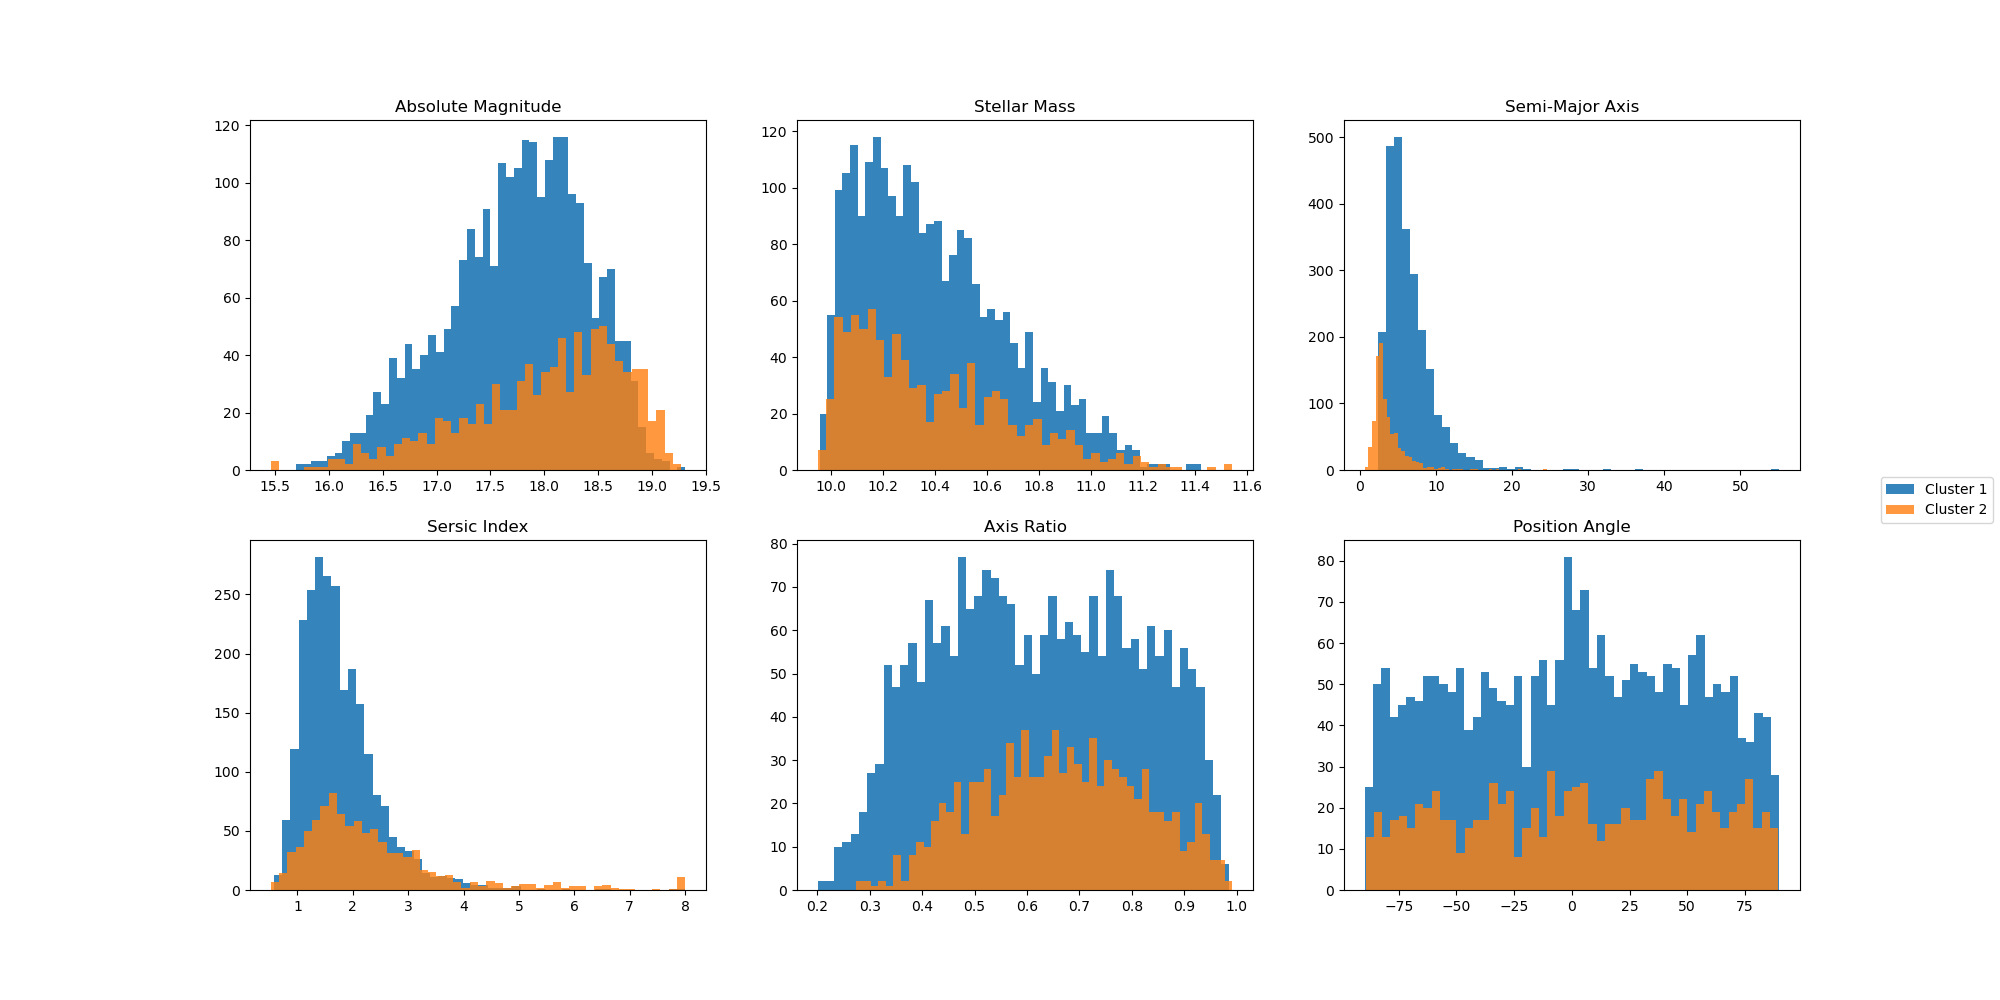
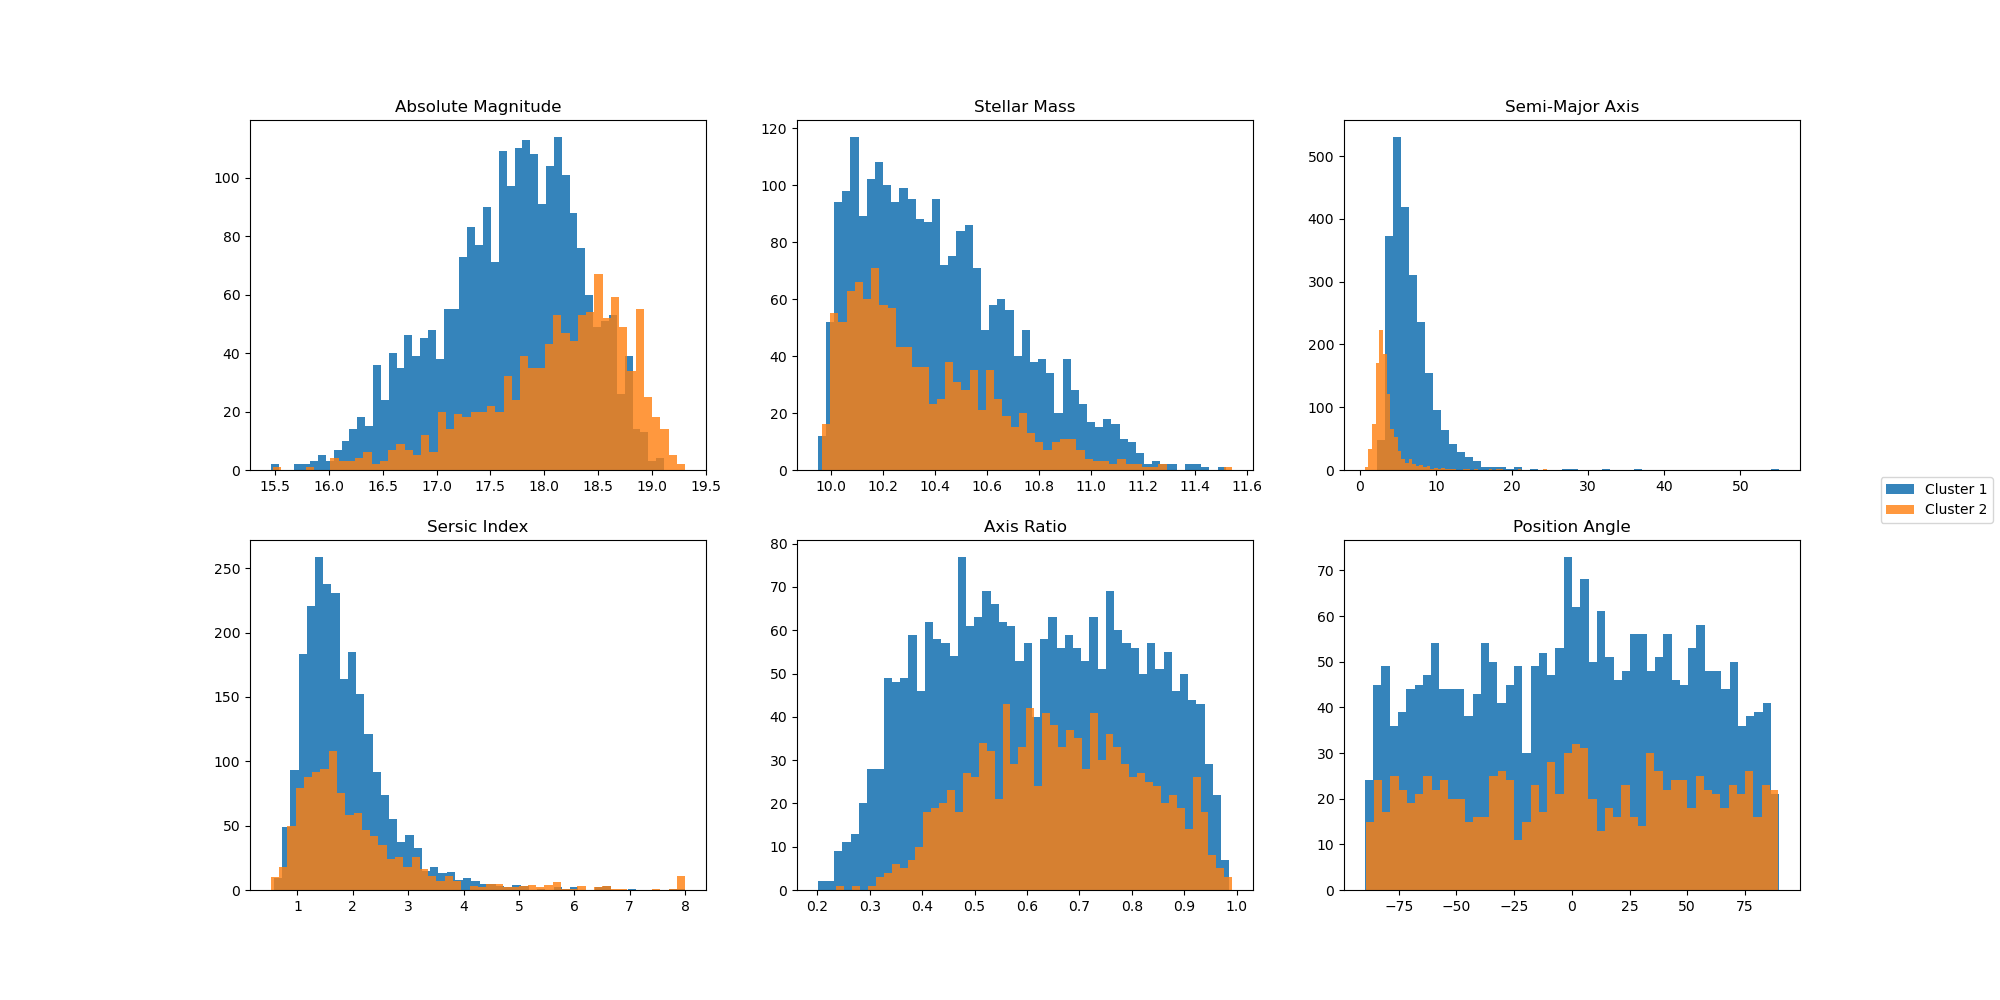
Code

diff --git a/property_comparison.py b/property_comparison.py
@@ -113,28 +113,28 @@ print(np.array(group_2).shape)
 
 # fig, axs = plt.subplots(2, 3, figsize=(20,10))
 #
-# axs[0, 0].hist(group_1["galfit_mag"], bins=50, alpha=0.9)
-# axs[0, 0].hist(group_2["galfit_mag"], bins=50, alpha=0.8)
+# axs[0, 0].hist(group_2["galfit_mag"], bins=50, alpha=0.9)
+# axs[0, 0].hist(group_1["galfit_mag"], bins=50, alpha=0.8)
 # axs[0, 0].set_title("Absolute Magnitude")
 #
-# axs[0, 1].hist(group_1["galfit_lmstar"], bins=50, alpha=0.9)
-# axs[0, 1].hist(group_2["galfit_lmstar"], bins=50, alpha=0.8)
+# axs[0, 1].hist(group_2["galfit_lmstar"], bins=50, alpha=0.9)
+# axs[0, 1].hist(group_1["galfit_lmstar"], bins=50, alpha=0.8)
 # axs[0, 1].set_title("Stellar Mass")
 #
-# axs[0, 2].hist(group_1["galfit_re"], bins=50, alpha=0.9)
-# axs[0, 2].hist(group_2["galfit_re"], bins=50, alpha=0.8)
+# axs[0, 2].hist(group_2["galfit_re"], bins=50, alpha=0.9)
+# axs[0, 2].hist(group_1["galfit_re"], bins=50, alpha=0.8)
 # axs[0, 2].set_title("Semi-Major Axis")
 #
-# axs[1, 0].hist(group_1["galfit_n"], bins=50, alpha=0.9)
-# axs[1, 0].hist(group_2["galfit_n"], bins=50, alpha=0.8)
+# axs[1, 0].hist(group_2["galfit_n"], bins=50, alpha=0.9)
+# axs[1, 0].hist(group_1["galfit_n"], bins=50, alpha=0.8)
 # axs[1, 0].set_title("Sersic Index")
 #
-# axs[1, 1].hist(group_1["galfit_q"], bins=50, alpha=0.9)
-# axs[1, 1].hist(group_2["galfit_q"], bins=50, alpha=0.8)
+# axs[1, 1].hist(group_2["galfit_q"], bins=50, alpha=0.9)
+# axs[1, 1].hist(group_1["galfit_q"], bins=50, alpha=0.8)
 # axs[1, 1].set_title("Axis Ratio")
 #
-# axs[1, 2].hist(group_1["galfit_PA"], bins=50, alpha=0.9)
-# axs[1, 2].hist(group_2["galfit_PA"], bins=50, alpha=0.8)
+# axs[1, 2].hist(group_2["galfit_PA"], bins=50, alpha=0.9)
+# axs[1, 2].hist(group_1["galfit_PA"], bins=50, alpha=0.8)
 # axs[1, 2].set_title("Position Angle")
 #
 # fig.legend(labels=["Cluster 1", "Cluster 2"], loc="center right")
@@ -145,107 +145,75 @@ print(np.array(group_2).shape)
 
 
 
-# group_1_random_index = random.sample(range(0, len(group_1_id)), 9)
-# group_2_random_index = random.sample(range(0, len(group_2_id)), 9)
 
-# group_1_random = group_1_id.iloc[group_1_random_index].tolist()
-# group_2_random = group_2_id.iloc[group_2_random_index].tolist()
-
-group_1_random = [3518865, 3533021, 10108400, 10452290, 9195988, 10625818, 17097594, 7164803, 9563813]
-group_2_random = [12485051, 9599139, 14266206, 9032934, 17858355, 10372952, 15996483, 9542933, 7144268]
-
-print(group_1_random)
-print(group_2_random)
-
-# fig, axs = plt.subplots(3, 6, figsize=(20,10))
-
-fig = plt.figure(constrained_layout=False, figsize=(20, 10))
-
-gs1 = fig.add_gridspec(nrows=3, ncols=3, left=0.05, right=0.48, wspace=0.05, hspace=0.05)
-gs2 = fig.add_gridspec(nrows=3, ncols=3, left=0.55, right=0.98, wspace=0.05, hspace=0.05)
-
-for i in range(0, 3):
-
-    g1_ax1 = fig.add_subplot(gs1[0, i])
-    image = mpimg.imread("/cosma7/data/Eagle/web-storage/RefL0100N1504_Subhalo/galface_" + str(group_1_random[i]) + ".png")
-    g1_ax1.imshow(image)
-    g1_ax1.get_xaxis().set_visible(False)
-    g1_ax1.get_yaxis().set_visible(False)
-
-    g1_ax2 = fig.add_subplot(gs1[1, i])
-    image = mpimg.imread("/cosma7/data/Eagle/web-storage/RefL0100N1504_Subhalo/galface_" + str(group_1_random[i+3]) + ".png")
-    g1_ax2.imshow(image)
-    g1_ax2.get_xaxis().set_visible(False)
-    g1_ax2.get_yaxis().set_visible(False)
-
-    g1_ax3 = fig.add_subplot(gs1[2, i])
-    image = mpimg.imread("/cosma7/data/Eagle/web-storage/RefL0100N1504_Subhalo/galface_" + str(group_1_random[i+6]) + ".png")
-    g1_ax3.imshow(image)
-    g1_ax3.get_xaxis().set_visible(False)
-    g1_ax3.get_yaxis().set_visible(False)
-
-    g2_ax1 = fig.add_subplot(gs2[0, i])
-    image = mpimg.imread("/cosma7/data/Eagle/web-storage/RefL0100N1504_Subhalo/galface_" + str(group_2_random[i]) + ".png")
-    g2_ax1.imshow(image)
-    g2_ax1.get_xaxis().set_visible(False)
-    g2_ax1.get_yaxis().set_visible(False)
-
-    g2_ax2 = fig.add_subplot(gs2[1, i])
-    image = mpimg.imread("/cosma7/data/Eagle/web-storage/RefL0100N1504_Subhalo/galface_" + str(group_2_random[i+3]) + ".png")
-    g2_ax2.imshow(image)
-    g2_ax2.get_xaxis().set_visible(False)
-    g2_ax2.get_yaxis().set_visible(False)
-
-    g2_ax3 = fig.add_subplot(gs2[2, i])
-    image = mpimg.imread("/cosma7/data/Eagle/web-storage/RefL0100N1504_Subhalo/galface_" + str(group_2_random[i+6]) + ".png")
-    g2_ax3.imshow(image)
-    g2_ax3.get_xaxis().set_visible(False)
-    g2_ax3.get_yaxis().set_visible(False)
-
-
-    if i == 1:
-        g1_ax1.set_title("Group 1", fontsize=30, pad=20)
-        g2_ax1.set_title("Group 2", fontsize=30, pad=20)
-
-
-    # image = mpimg.imread("/cosma7/data/Eagle/web-storage/RefL0100N1504_Subhalo/galface_" + str(group_1_random[i]) + ".png")
-    # axs[0, i].imshow(image)
-    # axs[0, i].get_xaxis().set_visible(False)
-    # axs[0, i].get_yaxis().set_visible(False)
-    #
-    # image = mpimg.imread("/cosma7/data/Eagle/web-storage/RefL0100N1504_Subhalo/galface_" + str(group_1_random[i+3]) + ".png")
-    # axs[1, i].imshow(image)
-    # axs[1, i].get_xaxis().set_visible(False)
-    # axs[1, i].get_yaxis().set_visible(False)
-    #
-    # image = mpimg.imread("/cosma7/data/Eagle/web-storage/RefL0100N1504_Subhalo/galface_" + str(group_1_random[i+6]) + ".png")
-    # axs[2, i].imshow(image)
-    # axs[2, i].get_xaxis().set_visible(False)
-    # axs[2, i].get_yaxis().set_visible(False)
-    #
-    # image = mpimg.imread("/cosma7/data/Eagle/web-storage/RefL0100N1504_Subhalo/galface_" + str(group_2_random[i]) + ".png")
-    # axs[0, i+3].imshow(image)
-    # axs[0, i+3].get_xaxis().set_visible(False)
-    # axs[0, i+3].get_yaxis().set_visible(False)
-    #
-    # image = mpimg.imread("/cosma7/data/Eagle/web-storage/RefL0100N1504_Subhalo/galface_" + str(group_2_random[i+3]) + ".png")
-    # axs[1, i+3].imshow(image)
-    # axs[1, i+3].get_xaxis().set_visible(False)
-    # axs[1, i+3].get_yaxis().set_visible(False)
-    #
-    # image = mpimg.imread("/cosma7/data/Eagle/web-storage/RefL0100N1504_Subhalo/galface_" + str(group_2_random[i+6]) + ".png")
-    # axs[2, i+3].imshow(image)
-    # axs[2, i+3].get_xaxis().set_visible(False)
-    # axs[2, i+3].get_yaxis().set_visible(False)
+# # group_1_random_index = random.sample(range(0, len(group_1_id)), 9)
+# # group_2_random_index = random.sample(range(0, len(group_2_id)), 9)
+#
+# # group_1_random = group_1_id.iloc[group_1_random_index].tolist()
+# # group_2_random = group_2_id.iloc[group_2_random_index].tolist()
+#
+# group_1_random = [3518865, 3533021, 10108400, 10452290, 9195988, 10625818, 17097594, 7164803, 9563813]
+# group_2_random = [12485051, 9599139, 14266206, 9032934, 17858355, 10372952, 15996483, 9542933, 7144268]
+#
+# print(group_1_random)
+# print(group_2_random)
+#
+# # fig, axs = plt.subplots(3, 6, figsize=(20,10))
+#
+# fig = plt.figure(constrained_layout=False, figsize=(20, 10))
+#
+# gs1 = fig.add_gridspec(nrows=3, ncols=3, left=0.05, right=0.48, wspace=0.05, hspace=0.05)
+# gs2 = fig.add_gridspec(nrows=3, ncols=3, left=0.55, right=0.98, wspace=0.05, hspace=0.05)
+#
+# for i in range(0, 3):
+#
+#     g1_ax1 = fig.add_subplot(gs1[0, i])
+#     image = mpimg.imread("/cosma7/data/Eagle/web-storage/RefL0100N1504_Subhalo/galface_" + str(group_1_random[i]) + ".png")
+#     g1_ax1.imshow(image)
+#     g1_ax1.get_xaxis().set_visible(False)
+#     g1_ax1.get_yaxis().set_visible(False)
+#
+#     g1_ax2 = fig.add_subplot(gs1[1, i])
+#     image = mpimg.imread("/cosma7/data/Eagle/web-storage/RefL0100N1504_Subhalo/galface_" + str(group_1_random[i+3]) + ".png")
+#     g1_ax2.imshow(image)
+#     g1_ax2.get_xaxis().set_visible(False)
+#     g1_ax2.get_yaxis().set_visible(False)
+#
+#     g1_ax3 = fig.add_subplot(gs1[2, i])
+#     image = mpimg.imread("/cosma7/data/Eagle/web-storage/RefL0100N1504_Subhalo/galface_" + str(group_1_random[i+6]) + ".png")
+#     g1_ax3.imshow(image)
+#     g1_ax3.get_xaxis().set_visible(False)
+#     g1_ax3.get_yaxis().set_visible(False)
+#
+#     g2_ax1 = fig.add_subplot(gs2[0, i])
+#     image = mpimg.imread("/cosma7/data/Eagle/web-storage/RefL0100N1504_Subhalo/galface_" + str(group_2_random[i]) + ".png")
+#     g2_ax1.imshow(image)
+#     g2_ax1.get_xaxis().set_visible(False)
+#     g2_ax1.get_yaxis().set_visible(False)
+#
+#     g2_ax2 = fig.add_subplot(gs2[1, i])
+#     image = mpimg.imread("/cosma7/data/Eagle/web-storage/RefL0100N1504_Subhalo/galface_" + str(group_2_random[i+3]) + ".png")
+#     g2_ax2.imshow(image)
+#     g2_ax2.get_xaxis().set_visible(False)
+#     g2_ax2.get_yaxis().set_visible(False)
+#
+#     g2_ax3 = fig.add_subplot(gs2[2, i])
+#     image = mpimg.imread("/cosma7/data/Eagle/web-storage/RefL0100N1504_Subhalo/galface_" + str(group_2_random[i+6]) + ".png")
+#     g2_ax3.imshow(image)
+#     g2_ax3.get_xaxis().set_visible(False)
+#     g2_ax3.get_yaxis().set_visible(False)
+#
+#
+#     if i == 1:
+#         g1_ax1.set_title("Group 1", fontsize=30, pad=20)
+#         g2_ax1.set_title("Group 2", fontsize=30, pad=20)
+#
+#
+#
+# plt.savefig("Plots/2_cluster_" + str(encoding_dim) + "_feature_originals")
+# plt.show()
 
 
-# axs[0,1].set_title("Group 1", pad=15, fontsize=40)
-# axs[0,4].set_title("Group 2", pad=15, fontsize=40)
-
-
-
-plt.savefig("Plots/2_cluster_" + str(encoding_dim) + "_feature_originals")
-plt.show()
 
 
 
@@ -269,49 +237,13 @@ plt.show()
 
 
 
+
+
 # extracted_features = np.flipud(np.rot90(extracted_features))
 #
 # fig, axs = plt.subplots(encoding_dim, 6, figsize=(20,60))
 #
 # for i in range(0, encoding_dim):
-#
-#     # title = "Feature " + str(i+1)
-#     # axs[0, i].set_title(title)
-#
-#     # sns.scatterplot(ax=axs[0, i], x=extracted_features[i], y=ab_magnitude, hue=clusters, palette="colorblind")
-#     # sns.scatterplot(ax=axs[1, i], x=extracted_features[i], y=mass, hue=clusters, palette="colorblind")
-#     # sns.scatterplot(ax=axs[2, i], x=extracted_features[i], y=semi_major, hue=clusters, palette="colorblind")
-#     # sns.scatterplot(ax=axs[3, i], x=extracted_features[i], y=sersic, hue=clusters, palette="colorblind")
-#     # sns.scatterplot(ax=axs[4, i], x=extracted_features[i], y=axis_ratio, hue=clusters, palette="colorblind")
-#     # sns.scatterplot(ax=axs[5, i], x=extracted_features[i], y=position_angle, hue=clusters, palette="colorblind")
-#
-#
-#     # sns.scatterplot(ax=axs[i, 0], y=extracted_features[i], x=ab_magnitude, hue=clusters, palette="colorblind")
-#     # sns.scatterplot(ax=axs[i, 1], y=extracted_features[i], x=mass, hue=clusters, palette="colorblind")
-#     # sns.scatterplot(ax=axs[i, 2], y=extracted_features[i], x=semi_major, hue=clusters, palette="colorblind")
-#     # sns.scatterplot(ax=axs[i, 3], y=extracted_features[i], x=sersic, hue=clusters, palette="colorblind")
-#     # sns.scatterplot(ax=axs[i, 4], y=extracted_features[i], x=axis_ratio, hue=clusters, palette="colorblind")
-#     # sns.scatterplot(ax=axs[i, 5], y=extracted_features[i], x=position_angle, hue=clusters, palette="colorblind")
-#     #
-#     # plt.hist2d(x, y, bins=(50, 50), cmap=plt.cm.jet)
-#     # plt.show()
-#     #
-#     # axs[i, 0].get_legend().remove()
-#     # axs[i, 1].get_legend().remove()
-#     # axs[i, 2].get_legend().remove()
-#     # axs[i, 3].get_legend().remove()
-#     # axs[i, 4].get_legend().remove()
-#     # axs[i, 5].get_legend().remove()
-#     #
-#     # axs[i, 0].set_ylabel("Feature " + str(i))
-#
-#
-#     # sns.scatterplot(ax=axs[0, i], x=extracted_features[i], y=ab_magnitude)
-#     # sns.scatterplot(ax=axs[1, i], x=extracted_features[i], y=mass)
-#     # sns.scatterplot(ax=axs[2, i], x=extracted_features[i], y=semi_major)
-#     # sns.scatterplot(ax=axs[3, i], x=extracted_features[i], y=sersic)
-#     # sns.scatterplot(ax=axs[4, i], x=extracted_features[i], y=axis_ratio)
-#     # sns.scatterplot(ax=axs[5, i], x=extracted_features[i], y=position_angle)
 #
 #     bins = 75
 #
@@ -330,17 +262,12 @@ plt.show()
 # axs[0, 4].set_title("Axis Ratio")
 # axs[0, 5].set_title("Position Angle")
 #
-# # axs[0, 0].set_ylabel("AB Magnitude")
-# # axs[1, 0].set_ylabel("Stellar Mass")
-# # axs[2, 0].set_ylabel("Semi-Major Axis")
-# # axs[3, 0].set_ylabel("Sersic Index")
-# # axs[4, 0].set_ylabel("Axis Ratio")
-# # axs[5, 0].set_ylabel("Position Angle")
 #
 # plt.yticks(rotation=90)
 #
 # plt.savefig("Plots/" + str(encoding_dim) + "_feature_property_comparison")
-# # plt.show()
+# plt.show()
+
 
 
 
